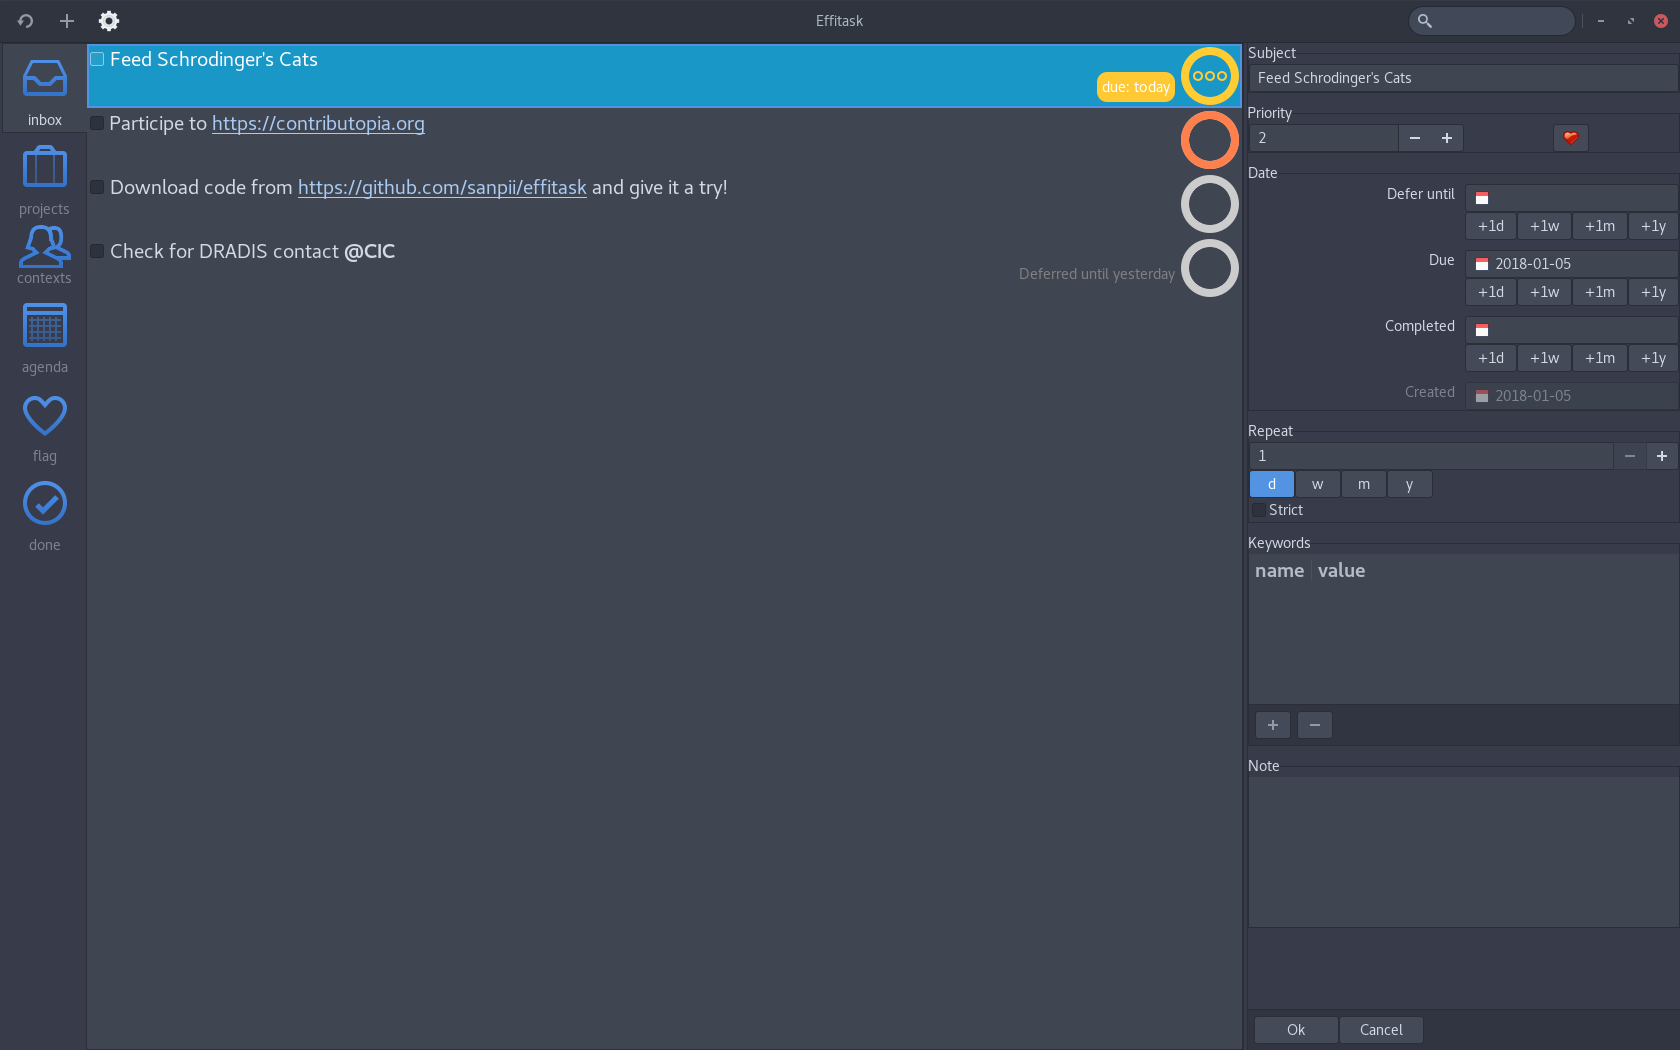
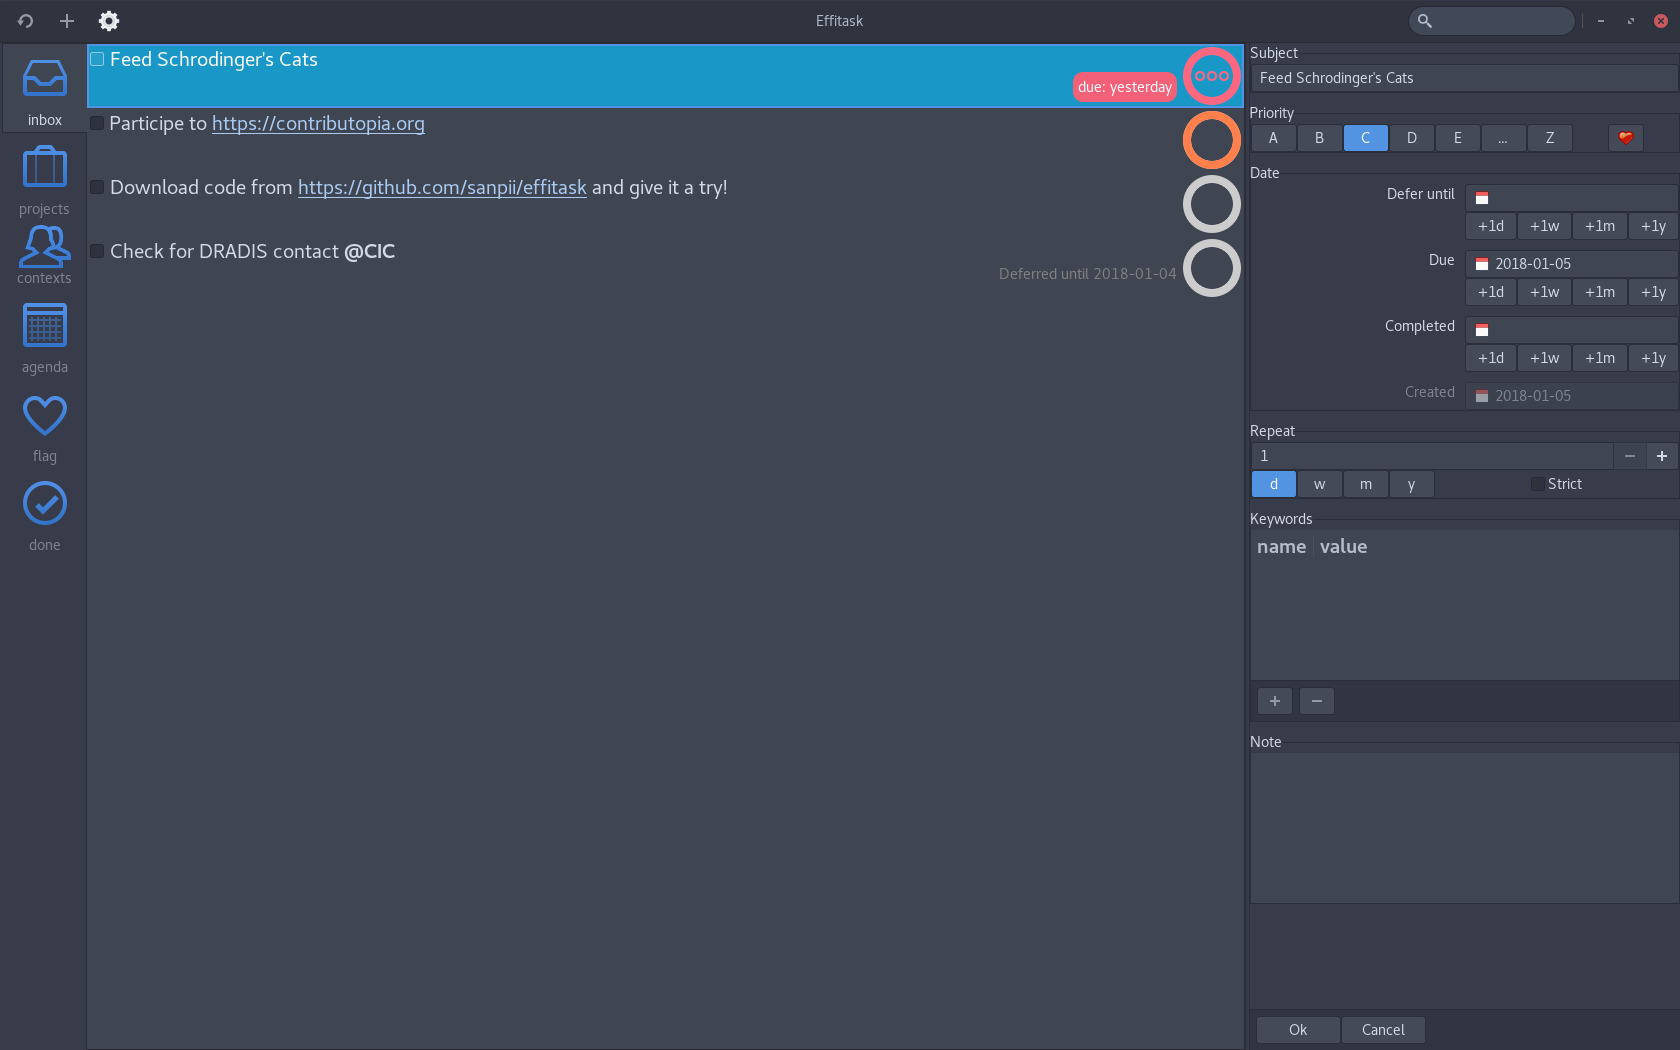
Recude repeat widget height

diff --git a/src/widgets/repeat.rs b/src/widgets/repeat.rs
@@ -150,12 +150,16 @@ impl ::relm::Widget for Repeat
                     mode: false,
                     toggled => Msg::UpdatePeriod,
                 },
-            },
-            #[name="strict"]
-            gtk::CheckButton {
-                label: "Strict",
-                tooltip_text: "Use real due date as offset, not today",
-                toggled => Msg::UpdateStrict,
+                #[name="strict"]
+                gtk::CheckButton {
+                    packing: {
+                        expand: true,
+                    },
+                    halign: ::gtk::Align::Center,
+                    label: "Strict",
+                    tooltip_text: "Use real due date as offset, not today",
+                    toggled => Msg::UpdateStrict,
+                },
             },
         }
     }
